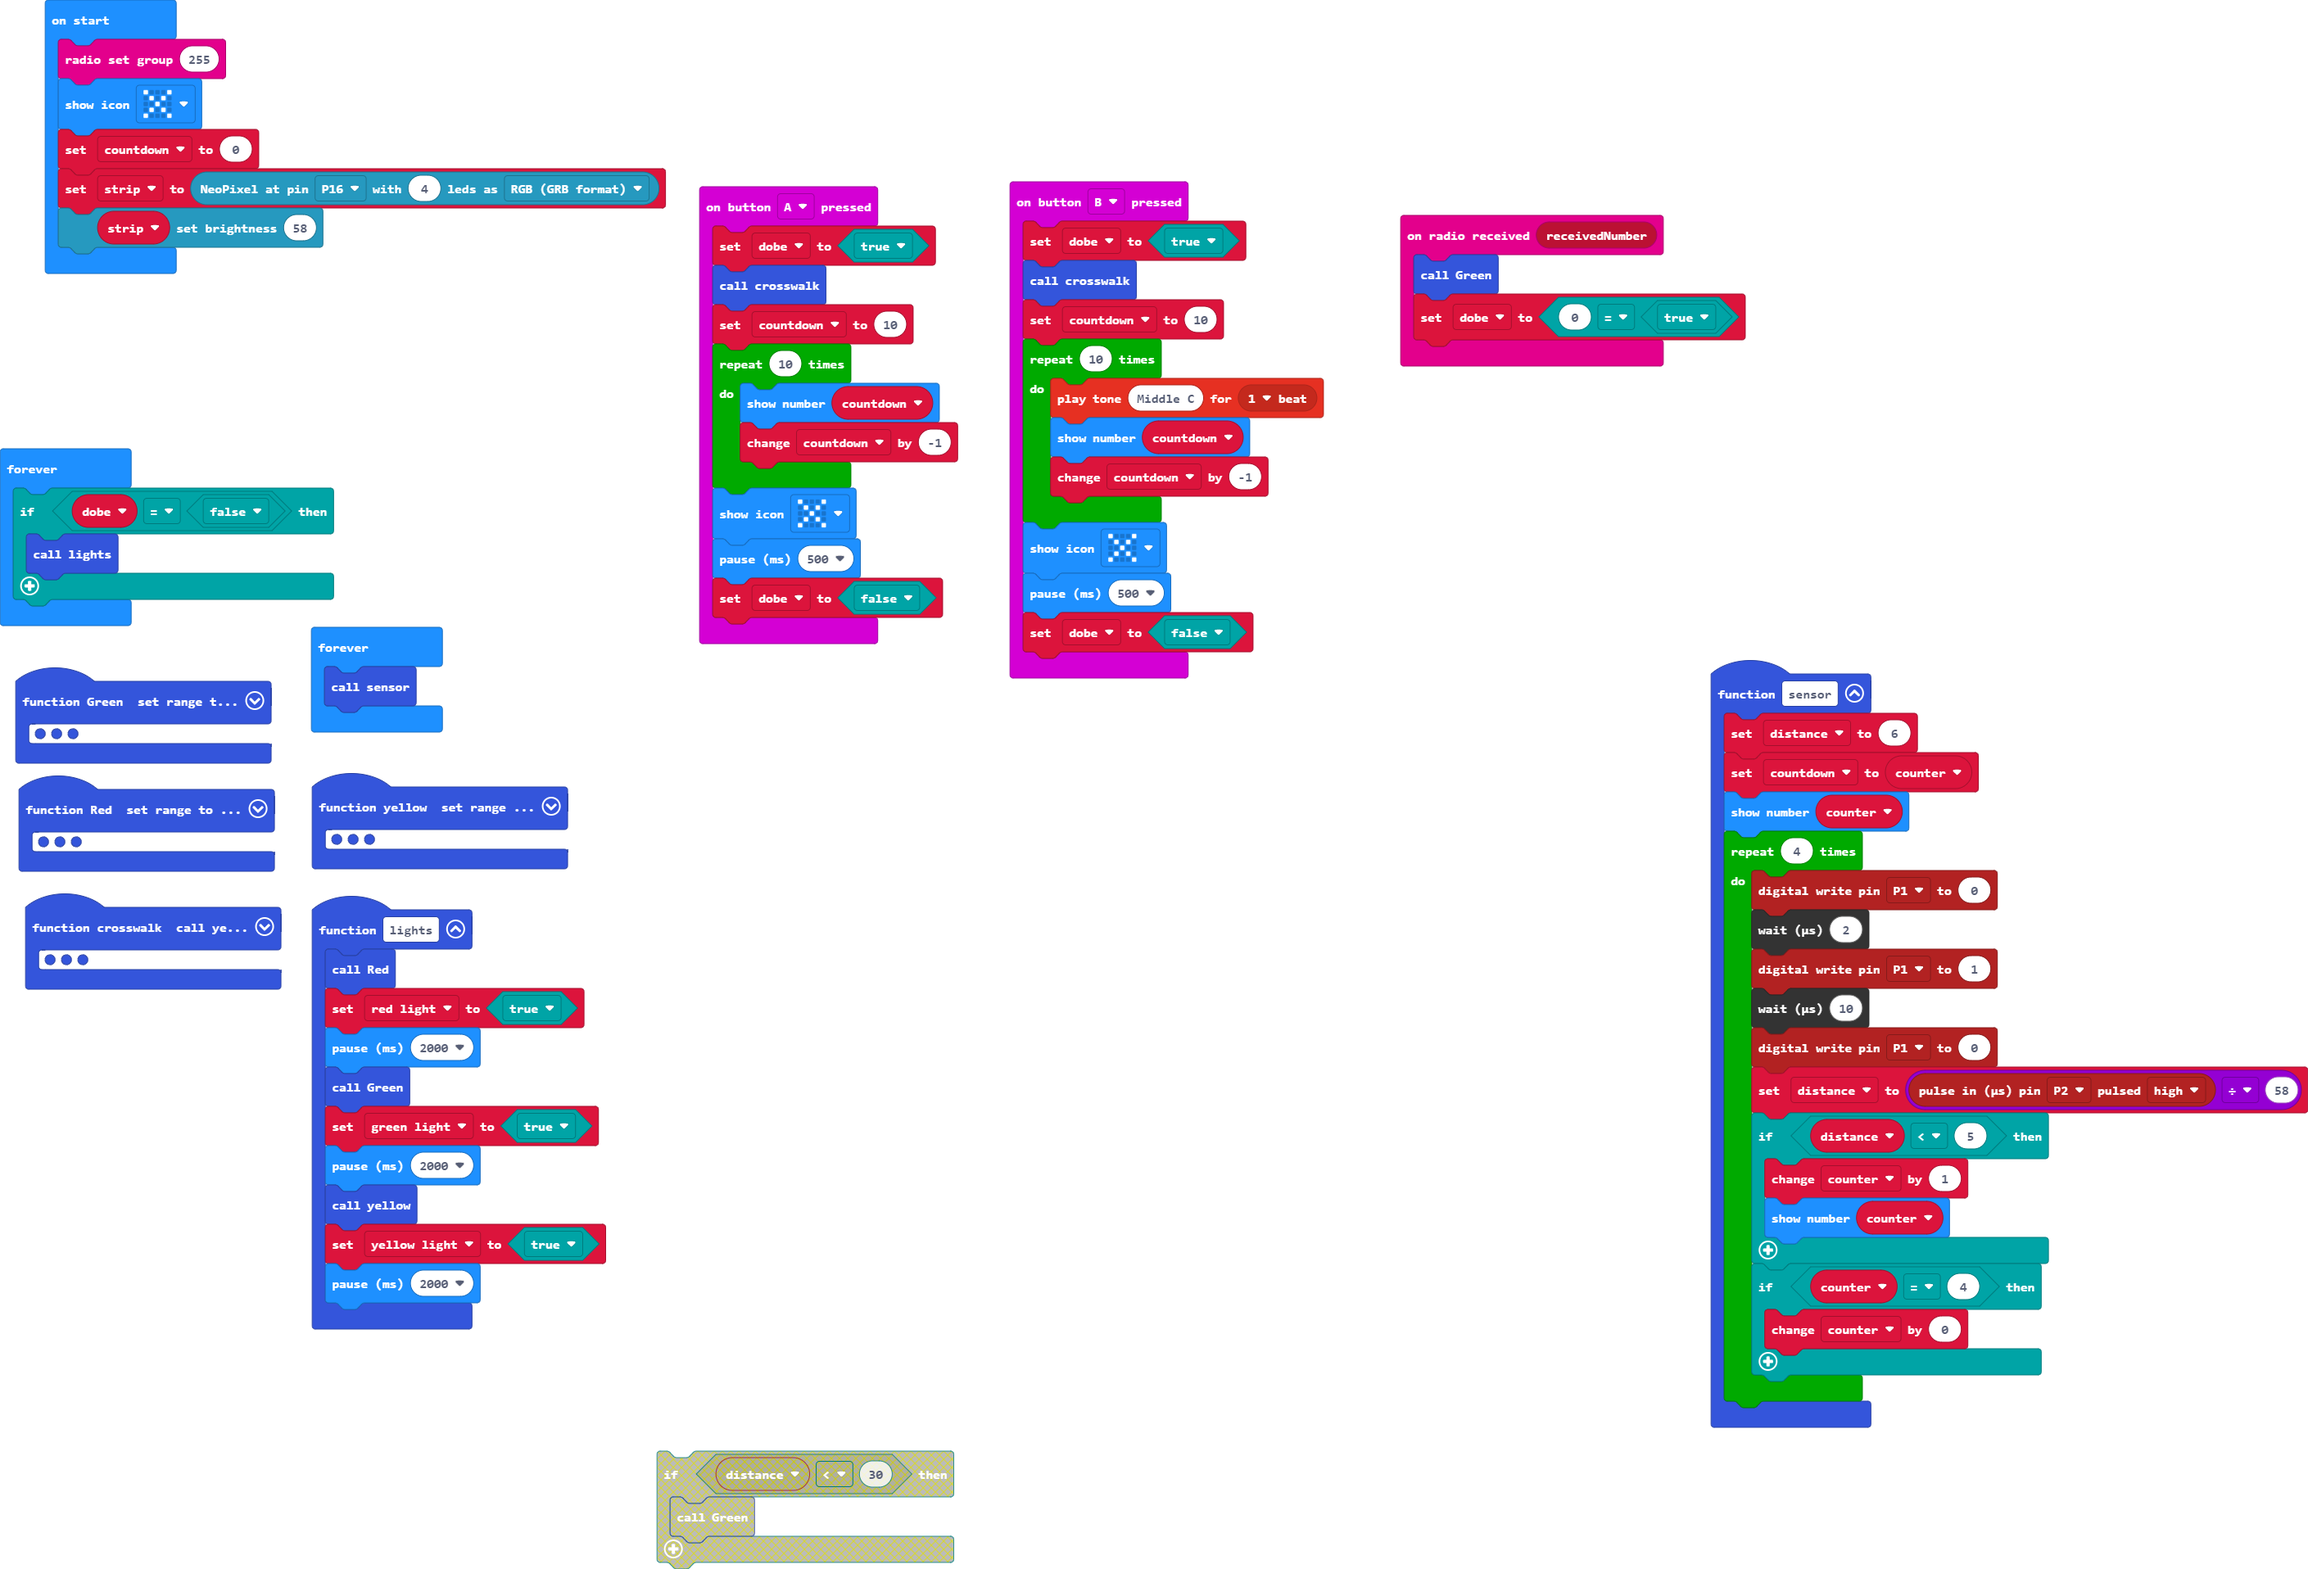
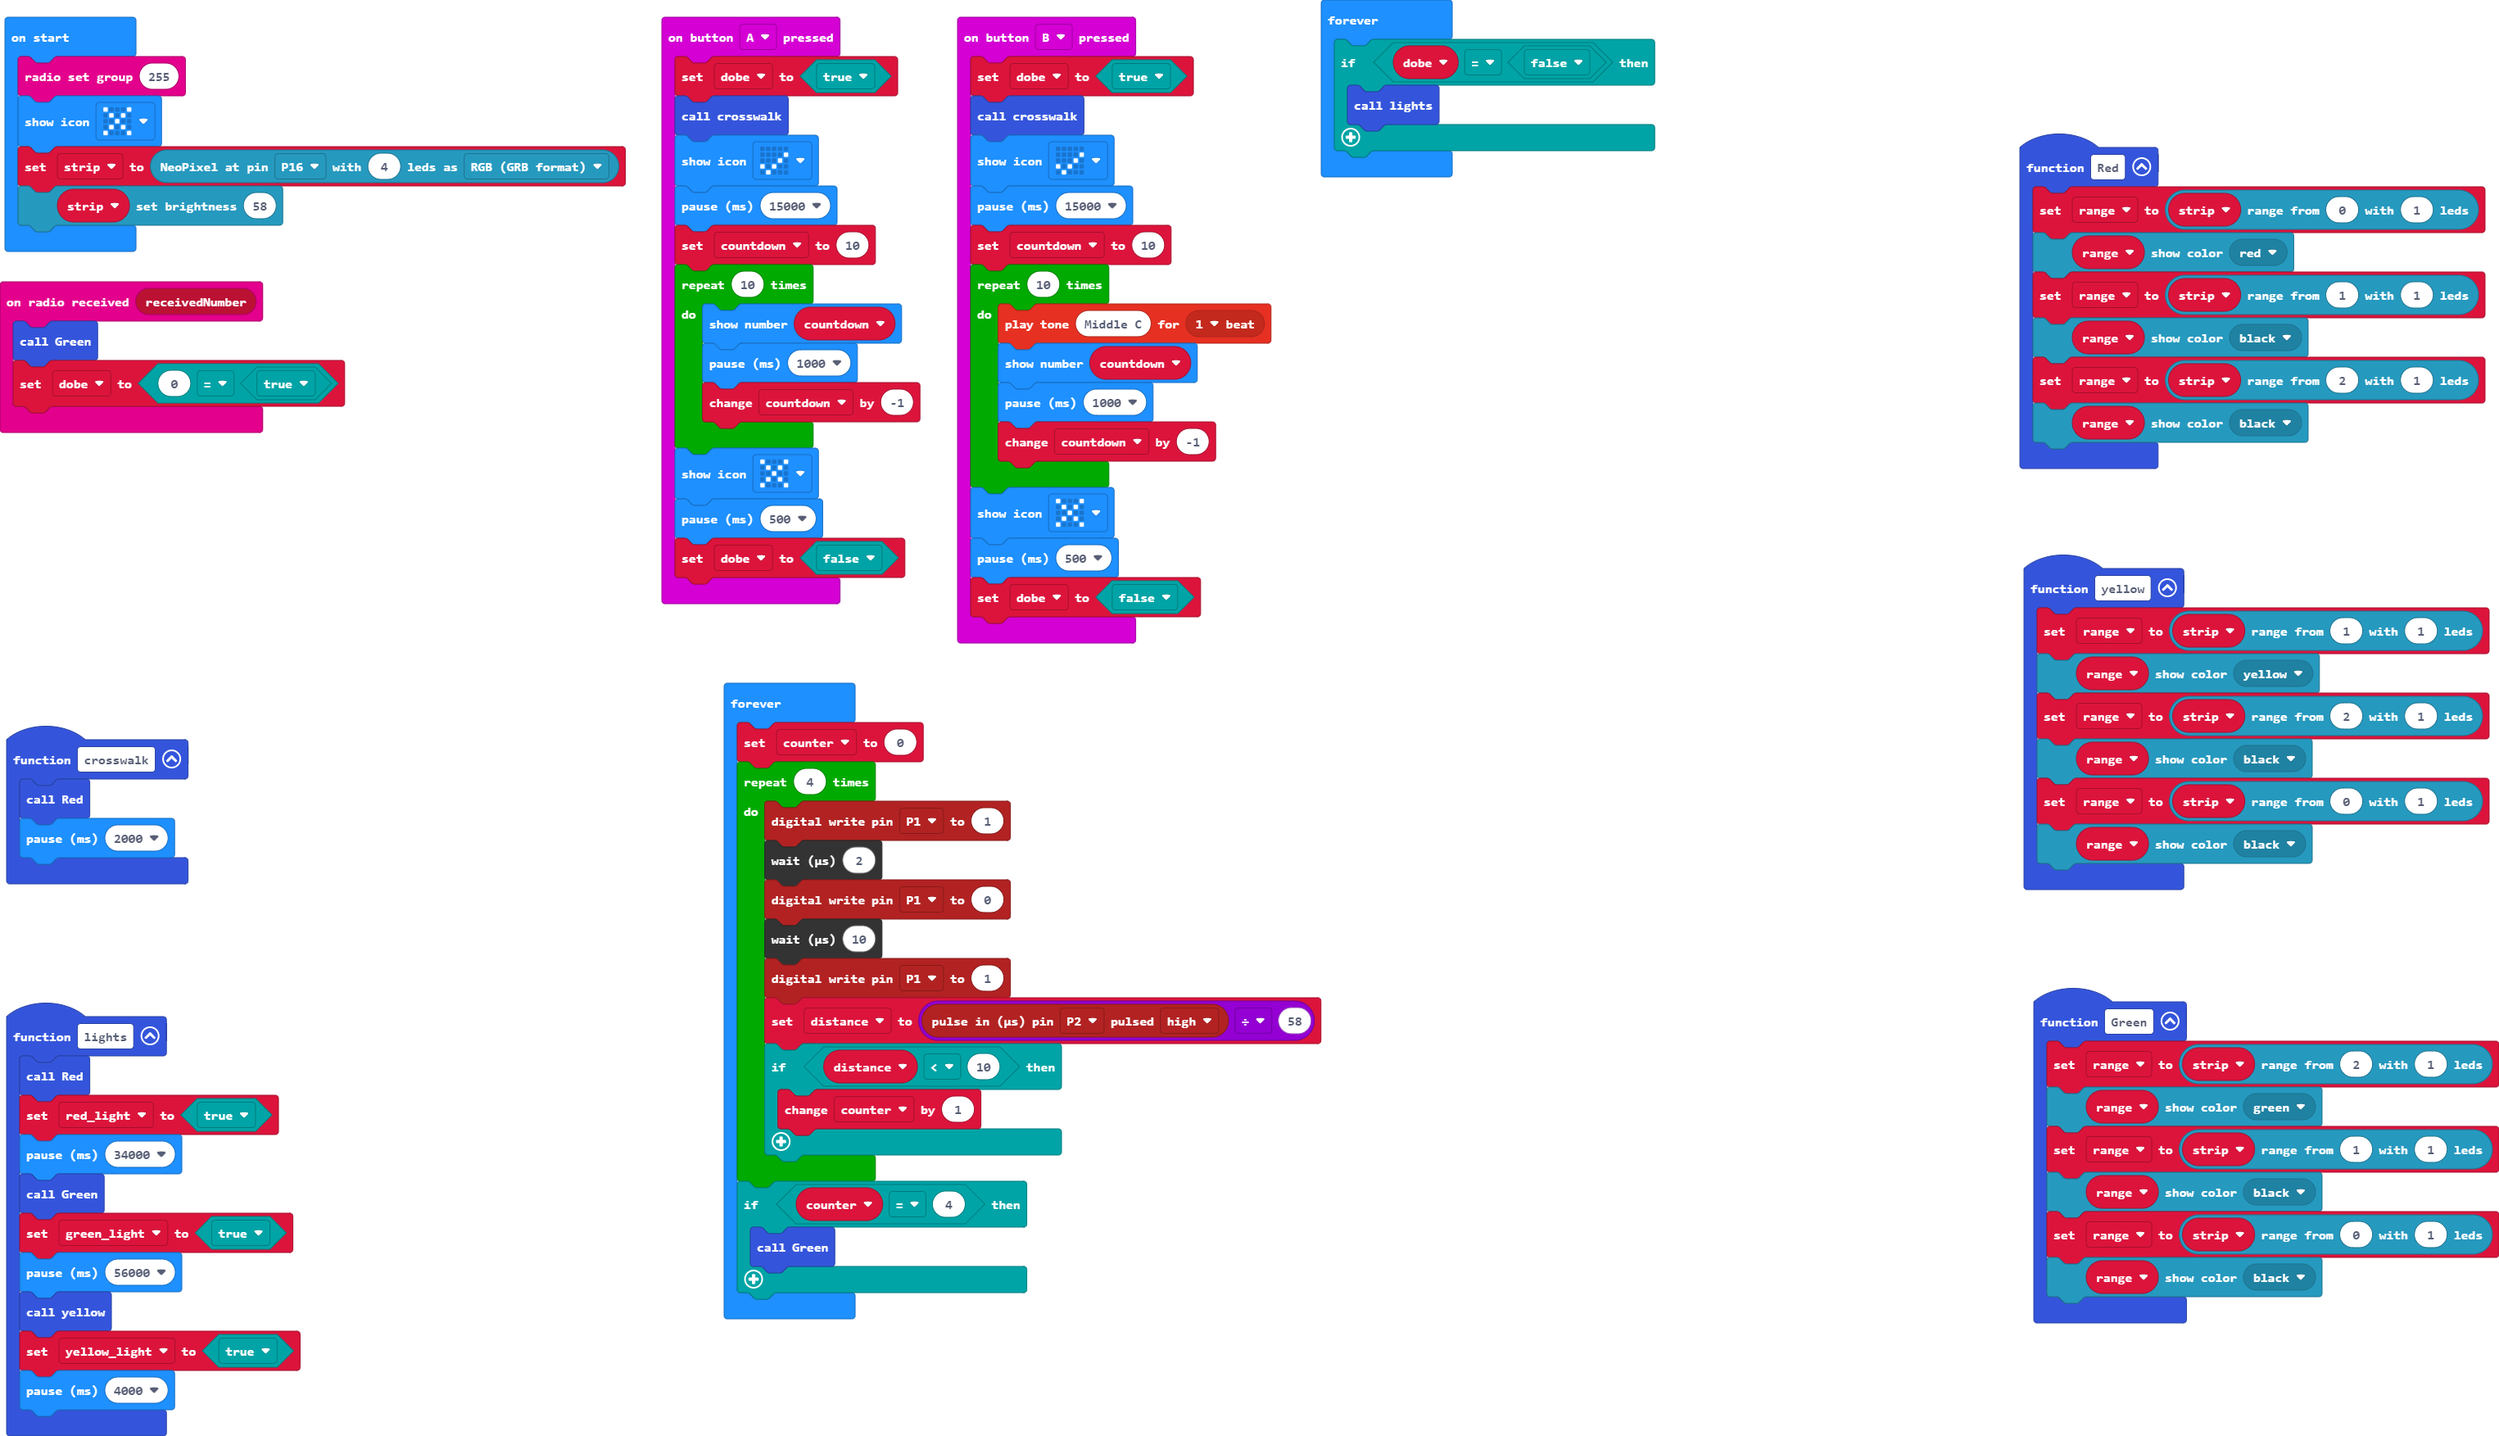
Update pxt.json, main.blocks, main.ts

diff --git a/main.ts b/main.ts
@@ -5,26 +5,27 @@ radio.onReceivedNumber(function (receivedNumber) {
 function lights () {
     Red()
     red_light = true
-    basic.pause(2000)
+    basic.pause(34000)
     Green()
     green_light = true
-    basic.pause(2000)
+    basic.pause(56000)
     yellow()
     yellow_light = true
-    basic.pause(2000)
+    basic.pause(4000)
 }
 function crosswalk () {
-    yellow()
-    basic.pause(10000)
     Red()
-    basic.pause(10000)
+    basic.pause(2000)
 }
 input.onButtonPressed(Button.A, function () {
     dobe = true
     crosswalk()
+    basic.showIcon(IconNames.Yes)
+    basic.pause(15000)
     countdown = 10
     for (let index = 0; index < 10; index++) {
         basic.showNumber(countdown)
+        basic.pause(1000)
         countdown += -1
     }
     basic.showIcon(IconNames.No)
@@ -34,10 +35,13 @@ input.onButtonPressed(Button.A, function () {
 input.onButtonPressed(Button.B, function () {
     dobe = true
     crosswalk()
+    basic.showIcon(IconNames.Yes)
+    basic.pause(15000)
     countdown = 10
     for (let index = 0; index < 10; index++) {
         music.playTone(262, music.beat(BeatFraction.Whole))
         basic.showNumber(countdown)
+        basic.pause(1000)
         countdown += -1
     }
     basic.showIcon(IconNames.No)
@@ -51,26 +55,6 @@ function yellow () {
     range.showColor(neopixel.colors(NeoPixelColors.Black))
     range = strip.range(0, 1)
     range.showColor(neopixel.colors(NeoPixelColors.Black))
-}
-function sensor () {
-    distance = 6
-    countdown = counter
-    basic.showNumber(counter)
-    for (let index = 0; index < 4; index++) {
-        pins.digitalWritePin(DigitalPin.P1, 0)
-        control.waitMicros(2)
-        pins.digitalWritePin(DigitalPin.P1, 1)
-        control.waitMicros(10)
-        pins.digitalWritePin(DigitalPin.P1, 0)
-        distance = pins.pulseIn(DigitalPin.P2, PulseValue.High) / 58
-        if (distance < 5) {
-            counter += 1
-            basic.showNumber(counter)
-        }
-        if (counter == 4) {
-            counter += 0
-        }
-    }
 }
 function Green () {
     range = strip.range(2, 1)
@@ -88,18 +72,17 @@ function Red () {
     range = strip.range(2, 1)
     range.showColor(neopixel.colors(NeoPixelColors.Black))
 }
-let counter = 0
 let distance = 0
+let counter = 0
 let range: neopixel.Strip = null
+let countdown = 0
 let yellow_light = false
 let green_light = false
 let red_light = false
 let dobe = false
 let strip: neopixel.Strip = null
-let countdown = 0
 radio.setGroup(255)
 basic.showIcon(IconNames.No)
-countdown = 0
 strip = neopixel.create(DigitalPin.P16, 4, NeoPixelMode.RGB)
 strip.setBrightness(58)
 basic.forever(function () {
@@ -108,5 +91,19 @@ basic.forever(function () {
     }
 })
 basic.forever(function () {
-    sensor()
+    counter = 0
+    for (let index = 0; index < 4; index++) {
+        pins.digitalWritePin(DigitalPin.P1, 1)
+        control.waitMicros(2)
+        pins.digitalWritePin(DigitalPin.P1, 0)
+        control.waitMicros(10)
+        pins.digitalWritePin(DigitalPin.P1, 1)
+        distance = pins.pulseIn(DigitalPin.P2, PulseValue.High) / 58
+        if (distance < 10) {
+            counter += 1
+        }
+    }
+    if (counter == 4) {
+        Green()
+    }
 })
